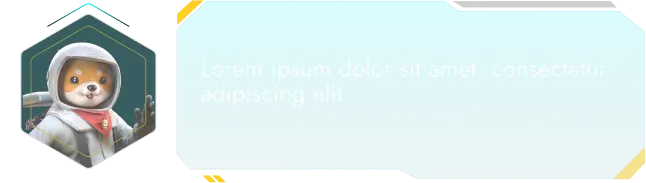
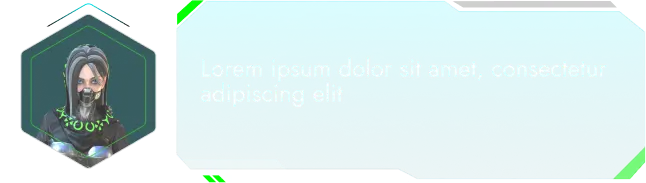
[ADD] cards section added

diff --git a/components/home/BabydogeCards.jsx b/components/home/BabydogeCards.jsx
@@ -51,18 +51,18 @@ export default function BabydogeCards() {
           // }}
         >
           <Image
-            src={"/assets/icons/text-top-yellow.svg"}
+            src={"/assets/icons/text-top-green.svg"}
             alt=""
             width={310}
             height={14}
           />
-          <h5 className="uppercase text-base sm:text-lg md:text-xl font-bold">
-            BABYDOGE
+          <h5 className="uppercase text-base sm:text-lg md:text-xl font-bold tracking-[8px]">
+            okx chain
           </h5>
         </motion.div>
 
-        <div className="flex flex-col-reverse lg:flex-row gap-5 sm:gap-10 items-center">
-          <div className="flex flex-col gap-7 sm:gap-10 relative z-[7]">
+        <div className="flex flex-col-reverse lg:flex-row gap-5 sm:gap-10 items-center 2xl:px-28">
+          <div className="flex flex-col gap-7 sm:gap-10 relative z-[7] w-full lg:w-1/2">
             {babydogeCaracters.map((ch, i) => (
               <motion.div
                 key={i}
@@ -88,6 +88,7 @@ export default function BabydogeCards() {
           </div>
           {/*  */}
           <motion.div
+            className="w-full lg:w-1/2 relative"
             variants={textVariant}
             initial="initial"
             whileInView="animate"
@@ -98,10 +99,11 @@ export default function BabydogeCards() {
             <Image
               src={"/assets/images/babydoge-ch.webp"}
               alt=""
-              width={1056}
-              height={1086}
-              className="relative bottom-7 sm:bottom-7 lg:ml-10 lg:bottom-16 z-[1]"
+              width={756}
+              height={786}
+              className="relative bottom-7 sm:bottom-7 lg:ml-10 lg:bottom-16 z-[1] lg:right-0 mx-auto lg:mx-0"
             />
+            <div className="block lg:hidden absolute bottom-0 left-0 w-full h-2/5 bg-gradient-to-b from-transparent to-black z-[2]" />
           </motion.div>
         </div>
       </div>
